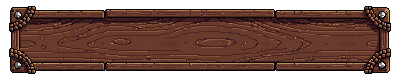
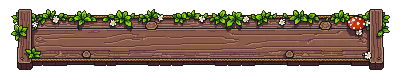
feat(navbar): nouvelle image bois avec feuillage intégré, hauteur 72px

diff --git a/src/app/(app)/layout.tsx b/src/app/(app)/layout.tsx
@@ -137,7 +137,7 @@ export default function AppLayout({ children }: { children: React.ReactNode }) {
       <nav
         className="shrink-0"
         style={{
-          height: 64,
+          height: 72,
           position: 'relative',
           overflow: 'visible',
           paddingBottom: 'env(safe-area-inset-bottom, 0px)',
@@ -155,22 +155,6 @@ export default function AppLayout({ children }: { children: React.ReactNode }) {
             objectFit: 'fill',
             imageRendering: 'pixelated',
             zIndex: 0,
-          }}
-        />
-        {/* Feuillage qui déborde en haut */}
-        <img
-          src="/assets/ui/foliage-dense.png"
-          alt=""
-          style={{
-            position: 'absolute',
-            top: -18,
-            left: 0,
-            width: '100%',
-            height: 28,
-            objectFit: 'cover',
-            imageRendering: 'pixelated',
-            pointerEvents: 'none',
-            zIndex: 20,
           }}
         />
         {/* Tabs */}
